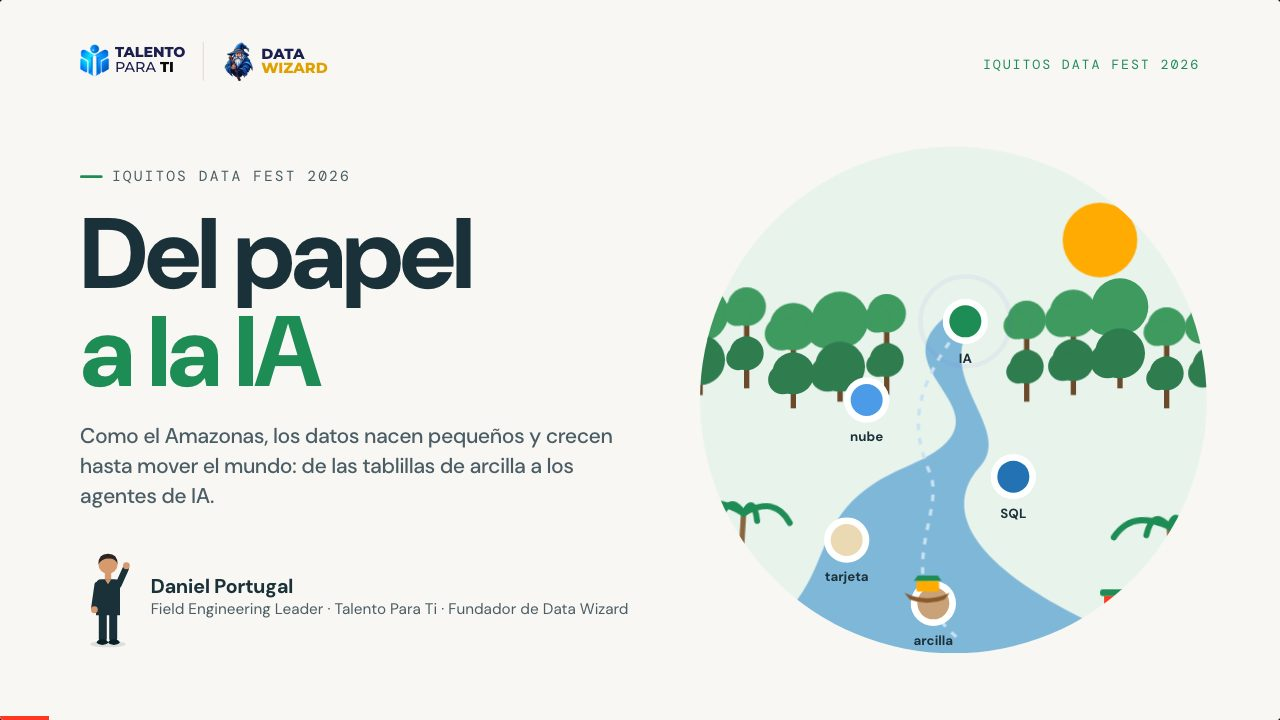
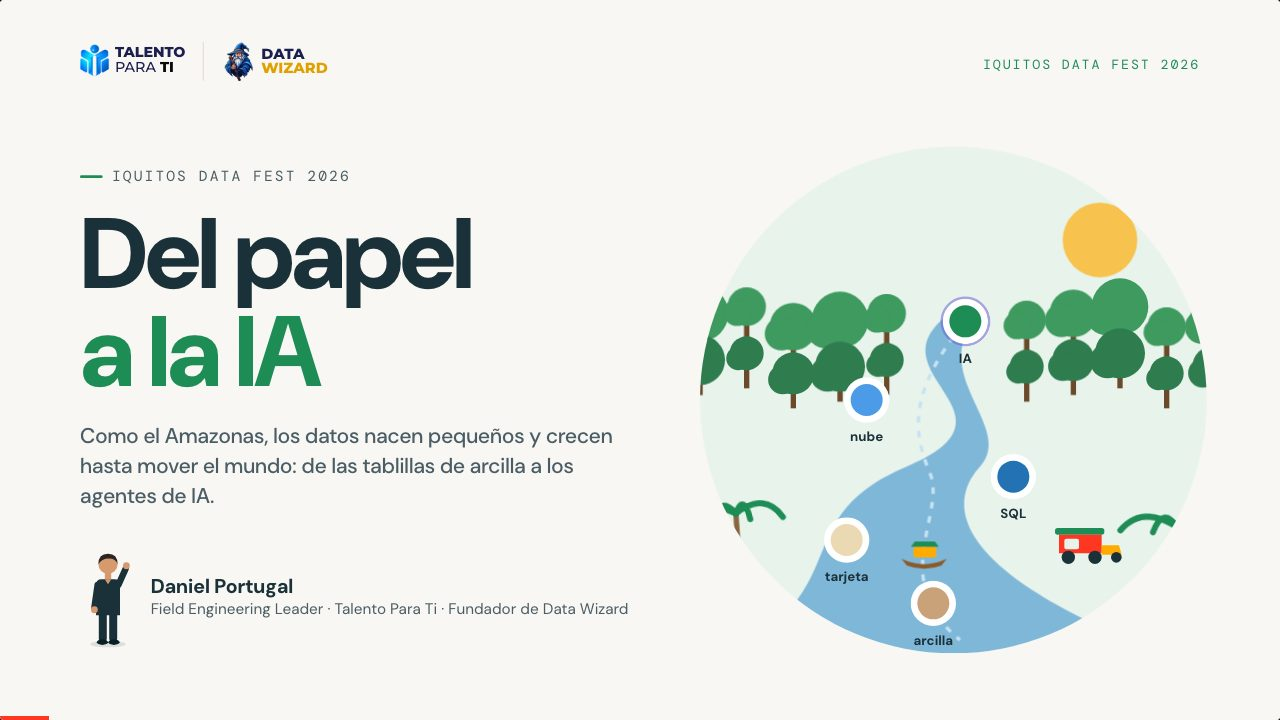
Ajusta portada de la edición Iquitos

diff --git a/public/slides/del-papel-a-la-ia-iquitos/index.html b/public/slides/del-papel-a-la-ia-iquitos/index.html
@@ -58,7 +58,7 @@
       <path class="loop march" d="M440 790 C330 700 420 600 395 540 S360 420 448 312" fill="none" stroke="#C7E2F2" stroke-width="5"/>
       <g id="climb"></g>
       <g class="loop" style="offset-path:path('M450 800 C330 700 420 600 395 540 S360 420 448 312');offset-rotate:0deg;animation:lp-flow 11s linear 1.8s infinite"><g transform="translate(-34 -24)"><path d="M0 26 Q34 42 68 26 L60 36 Q34 46 8 36Z" fill="#8A5A2B"/><rect x="18" y="8" width="34" height="16" rx="3" fill="#FFAB00"/><path d="M14 8 L56 8 L50 0 L20 0Z" fill="#1E8C55"/></g></g>
-      <g class="loop" style="animation:cart 6s ease-in-out infinite"><g transform="translate(620 760)"><rect x="0" y="-46" width="74" height="10" rx="4" fill="#1E8C55"/><path d="M6 -36 H70 V-8 H6Z" fill="#FF3621"/><rect x="14" y="-30" width="22" height="16" rx="3" fill="#E8F3EC"/><path d="M70 -20 L96 -20 L100 -6 L70 -6Z" fill="#FFAB00"/><circle cx="20" cy="-2" r="10" fill="#1B3139"/><circle cx="60" cy="-2" r="10" fill="#1B3139"/><circle cx="92" cy="-2" r="8" fill="#1B3139"/></g></g>
+      <g class="loop" style="animation:cart 6s ease-in-out infinite"><g transform="translate(575 668)"><rect x="0" y="-46" width="74" height="10" rx="4" fill="#1E8C55"/><path d="M6 -36 H70 V-8 H6Z" fill="#FF3621"/><rect x="14" y="-30" width="22" height="16" rx="3" fill="#E8F3EC"/><path d="M70 -20 L96 -20 L100 -6 L70 -6Z" fill="#FFAB00"/><circle cx="20" cy="-2" r="10" fill="#1B3139"/><circle cx="60" cy="-2" r="10" fill="#1B3139"/><circle cx="92" cy="-2" r="8" fill="#1B3139"/></g></g>
       <g class="loop" style="transform-origin:640px 690px;transform-box:view-box;animation:dolphin 4.5s ease-in-out infinite"><path d="M600 690 Q640 640 690 676 L704 666 L700 686 Q650 700 600 690Z" fill="#F29BB5"/><circle cx="672" cy="676" r="3" fill="#1B3139"/></g>
     </g>
   </svg>
